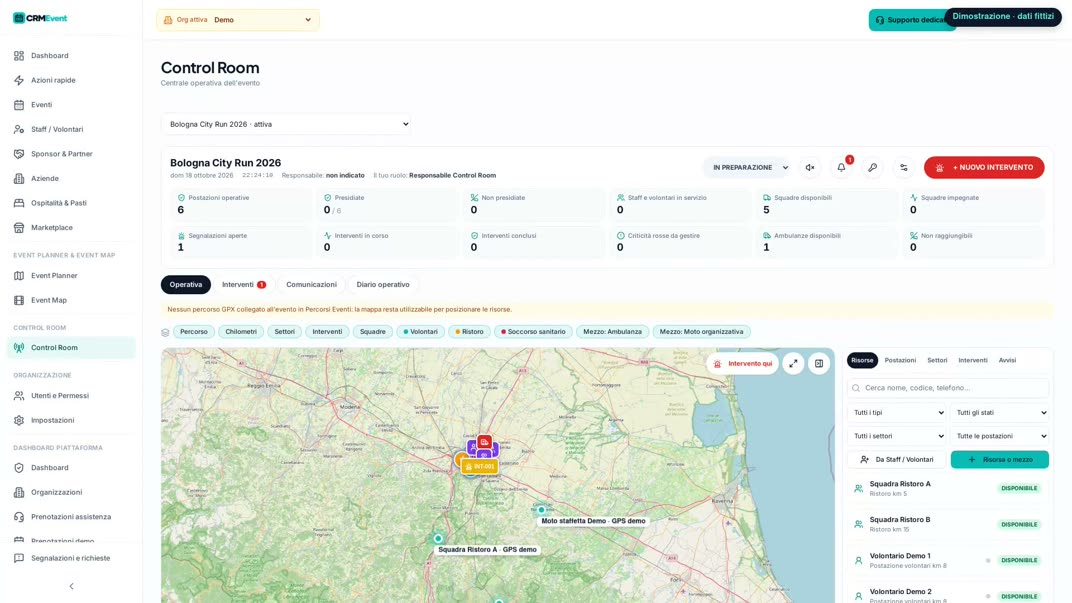
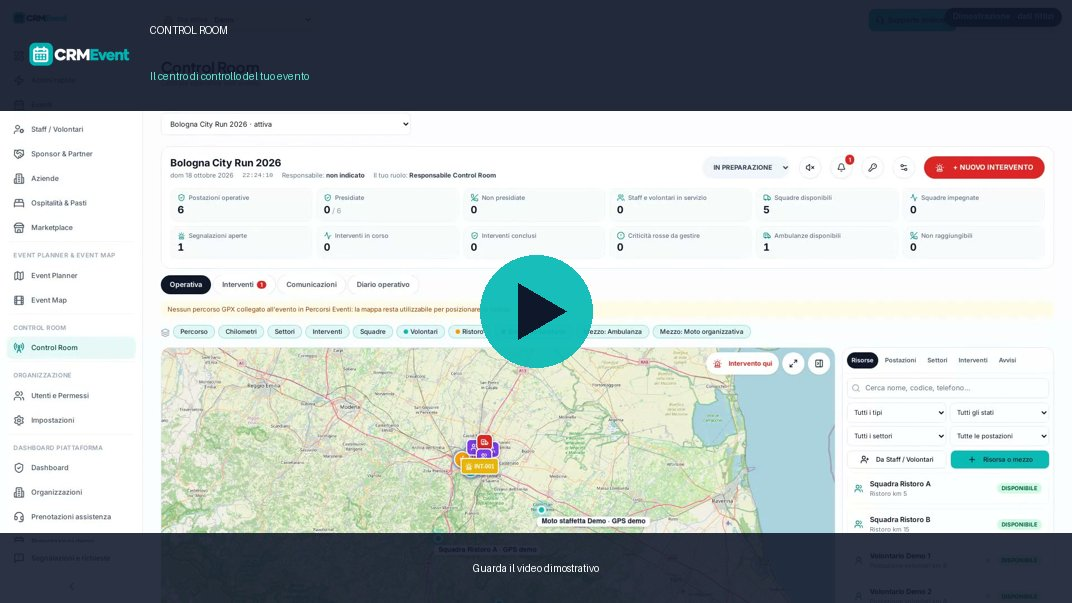
## Control Room: pagina di presentazione e video dimostrativo
La pagina Control Room ora funziona come Event Planner: senza modulo attivo mostra la presentazione con il video, con modulo attivo apre la dashboard operativa. Il test automatico ha confermato tutti i percorsi principali (non attivo, concessione gratuita, disattivazione, revoca, video in Marketing, smartphone) e i dati restano conservati. Le piccole correzioni fatte dopo il test le ho verificate solo con prove dirette, senza un nuovo test completo.

**La pagina di presentazione**
- Usa lo stesso modello di Event Planner, con titolo e sottotitolo richiesti, il video a sinistra e a destra la descrizione con l'elenco delle funzioni con le spunte.
- La voce **GPS** è indicata come "disponibile prossimamente", perché il tracciamento non è ancora attivo.
- **Riquadro commerciale:** mostra lo stato del modulo, che non è incluso negli abbonamenti, e il prezzo letto dal backend (119 € + IVA per evento), non scritto nella pagina.
- **Attiva dal Marketplace:** il pulsante apre la scheda Control Room del Marketplace già esistente.
- **Modulo disattivato:** se l'hai disattivato tu, al posto del pulsante compare il messaggio che i dati sono conservati.

**Il video (56 secondi, Full HD)**
- È la vera interfaccia di Control Room, registrata su "Bologna City Run 2026" dell'organizzazione Demo con dati fittizi: settori, 6 postazioni, squadre, mezzi e un intervento.
- In alto c'è la scritta fissa "Dimostrazione · dati fittizi".
[…]

diff --git a/frontend/src/pages/AddonHub.jsx b/frontend/src/pages/AddonHub.jsx
@@ -36,7 +36,7 @@ export function InfoPage({ info, s }) {
           <div className="font-semibold text-slate-900"><PriceLine info={info} s={s} /></div>
           <div className="text-slate-500" data-testid="addon-info-plan">{info.product === "controlroom" ? `Stato: ${s.module_disabled ? "disattivata" : "non attiva"} per la tua organizzazione · non inclusa negli abbonamenti, si attiva per singolo evento.` : s.included > 0 ? `Il tuo piano include ${info.name} su ${s.included} ${s.included === 1 ? "evento" : "eventi"}: già tutti assegnati.` : `Il tuo piano attuale non include eventi ${info.name}.`}</div>
         </div>
-        <Link to={`/marketplace?servizio=${info.slug}`} className="inline-flex h-11 items-center gap-2 rounded-lg bg-[#0ABAB5] px-6 font-semibold text-slate-900 hover:bg-[#09A8A3]" data-testid="addon-info-marketplace"><Store className="w-4 h-4" />Attiva dal Marketplace</Link>
+        {!s.module_disabled && <Link to={`/marketplace?servizio=${info.slug}`} className="inline-flex h-11 items-center gap-2 rounded-lg bg-[#0ABAB5] px-6 font-semibold text-slate-900 hover:bg-[#09A8A3]" data-testid="addon-info-marketplace"><Store className="w-4 h-4" />Attiva dal Marketplace</Link>}
       </div>
     </div>
   );

diff --git a/backend/tests/test_cr_promo_page.py b/backend/tests/test_cr_promo_page.py
@@ -1,0 +1,146 @@
+# Control Room promo page (iteration 178): /controlroom/events promo state, SA grant/revoke/disable on Demo org, 402 when inactive, data preserved, promo-materials control-room media
+import os
+import pytest
+import requests
+from dotenv import load_dotenv
+
+load_dotenv("/app/frontend/.env")
+BASE = os.environ.get("REACT_APP_BACKEND_URL").rstrip("/")
+API = BASE + "/api"
+SA = {"email": "manara.michele.pro@gmail.com", "password": "CrmEvent2026!"}
+ORG = "b7f40862230441b9a0bedabefe8dab49"
+EV = "demo_evt_bcr"
+DEF_MEDIA = {"mp4": "/media/control-room-demo.mp4", "poster": "/media/control-room-demo-poster.jpg", "preview": "/media/brevo/control-room-anteprima.jpg"}
+
+
+def _sa(org=None):
+    s = requests.Session()
+    r = s.post(f"{API}/auth/login", json=SA)
+    if r.status_code != 200:
+        pytest.skip("SA login failed")
+    s.headers["Authorization"] = f"Bearer {s.cookies.get('access_token')}"
+    if org:
+        s.headers["X-Org-Id"] = org
+    return s
+
+
+def _restore_preview():
+    # promo media POST with poster also overwrites preview; restore original preview directly in DB
+    import asyncio
+    from motor.motor_asyncio import AsyncIOMotorClient
+    from dotenv import load_dotenv
+    load_dotenv("/app/backend/.env")
+
+    async def go():
+        c = AsyncIOMotorClient(os.environ["MONGO_URL"])
+        await c[os.environ["DB_NAME"]].promo_materials.update_one({"slug": "control-room"}, {"$set": {**DEF_MEDIA, "webm": None}})
+        c.close()
+    asyncio.run(go())
+
+
+class TestCrPromoLifecycle:
+    """Sequential: inactive -> grant -> active -> disable -> enable -> revoke"""
+
+    def test_lifecycle(self):
+        sa = _sa()
+        org = _sa(ORG)
+        # initial inactive
+        d = org.get(f"{API}/controlroom/events").json()
+        assert d["price_net"] == 119 or d["price_net"] == 119.0
+        assert d["module_disabled"] is False
+        assert not any(e["active"] for e in d["events"]), "Demo org should start without active CR"
+        r = org.get(f"{API}/controlroom/events/{EV}/ops")
+        assert r.status_code == 402, r.text
+        assert "cr_posts" not in r.text and "posts" not in r.json()
+        # marketplace service
+        svcs = org.get(f"{API}/marketplace/services").json()["services"]
+        svc = next(x for x in svcs if x["key"] == "control-room")
+        assert svc["status"] != "coming_soon"
+        # grant (no X-Org-Id)
+        g = sa.post(f"{API}/platform/orgs/{ORG}/modules/controlroom/grant", json={"event_ids": [EV], "note": "TEST_iter178"})
+        assert g.status_code == 200, g.text
+        assert g.json()["created"] == 1
+        pid = None
+        try:
+            d = org.get(f"{API}/controlroom/events").json()
+            assert next(e for e in d["events"] if e["id"] == EV)["active"] is True
+            ops = org.get(f"{API}/controlroom/events/{EV}/ops")
+            assert ops.status_code == 200, ops.text
+            n_posts = len(ops.json().get("posts") or [])
+            assert n_posts >= 1, "demo posts data should be preserved"
+            # disable
+            st = sa.post(f"{API}/platform/orgs/{ORG}/modules/controlroom/state", json={"enabled": False})
+            assert st.status_code == 200, st.text
+            d = org.get(f"{API}/controlroom/events").json()
+            assert d["module_disabled"] is True and not any(e["active"] for e in d["events"])
+            assert org.get(f"{API}/controlroom/events/{EV}/ops").status_code == 402
+            # enable
+            assert sa.post(f"{API}/platform/orgs/{ORG}/modules/controlroom/state", json={"enabled": True}).status_code == 200
+            ops2 = org.get(f"{API}/controlroom/events/{EV}/ops")
+            assert ops2.status_code == 200 and len(ops2.json().get("posts") or []) == n_posts
+            # find purchase id
+            pr = sa.get(f"{API}/platform/controlroom/purchases").json()
+            rows = pr if isinstance(pr, list) else (pr.get("purchases") or pr.get("items") or [])
+            pid = next(p["id"] for p in rows if p.get("event_id") == EV and p.get("status") == "active" and (p.get("org_id") in (None, ORG)))
+        finally:
+            sa.post(f"{API}/platform/orgs/{ORG}/modules/controlroom/state", json={"enabled": True})
+            if pid is None:
+                pr = sa.get(f"{API}/platform/controlroom/purchases").json()
+                rows = pr if isinstance(pr, list) else (pr.get("purchases") or pr.get("items") or [])
+                pid = next((p["id"] for p in rows if p.get("event_id") == EV and p.get("status") == "active"), None)
+            if pid:
+                rv = sa.post(f"{API}/platform/orgs/{ORG}/modules/controlroom/{pid}/revoke")
+                assert rv.status_code == 200, rv.text
+        d = org.get(f"{API}/controlroom/events").json()
+        assert not any(e["active"] for e in d["events"])
+        assert org.get(f"{API}/controlroom/events/{EV}/ops").status_code == 402
+
+
+class TestPromoMaterialControlRoom:
+    def test_public_promo(self):
+        r = requests.get(f"{API}/public/promo/control-room")
+        assert r.status_code == 200
+        d = r.json()
+        assert d["mp4"] == DEF_MEDIA["mp4"] and d["poster"] == DEF_MEDIA["poster"] and d["status"] == "pubblicato"
+        assert any(x["slug"] == "control-room" for x in requests.get(f"{API}/public/promo").json())
+
+    def test_media_files_served(self):
+        for p, ct in [(DEF_MEDIA["mp4"], "video/mp4"), (DEF_MEDIA["poster"], "image/jpeg"), (DEF_MEDIA["preview"], "image/jpeg")]:
+            r = requests.get(BASE + p, headers={"Range": "bytes=0-100"})
+            assert r.status_code in (200, 206), p
+            assert ct in r.headers.get("content-type", ""), (p, r.headers.get("content-type"))
+
+    def test_public_video_page(self):
+        r = requests.get(f"{BASE}/video/control-room")
+        assert r.status_code == 200
+
+    def test_media_rbac_and_validation(self):
+        anon = requests.post(f"{API}/promo-materials/control-room/media", json={"poster": DEF_MEDIA["poster"]})
+        assert anon.status_code in (401, 403)
+        sa = _sa()
+        import uuid
+        u = requests.Session()
+        email, name = f"test_cr178_{uuid.uuid4().hex[:8]}@example.com", f"TEST_CR178_{uuid.uuid4().hex[:6]}"
+        rr = u.post(f"{API}/auth/register-organization", json={"nome": "Test", "cognome": "CR", "email": email, "password": "TestPass123!",
+                                                               "org_name": name, "telefono": "+393331234567", "accept_terms": True})
+        assert rr.status_code == 200, rr.text
+        me = u.get(f"{API}/auth/me").json()
+        try:
+            assert u.post(f"{API}/promo-materials/control-room/media", json={"poster": DEF_MEDIA["poster"]}).status_code == 403
+            # fresh org: promo state, no events, ops 402
+            d = u.get(f"{API}/controlroom/events").json()
+            assert d["module_disabled"] is False and d["events"] == []
+        finally:
+            sa.delete(f"{API}/platform/organizations/{me['org_id']}", json={"confirm_name": name})
+            sa.delete(f"{API}/platform/users/{me['user_id']}")
+        for bad in [{"poster": "javascript:alert(1)"}, {"mp4": "ftp://x/y.mp4"}, {}, {"poster": "/etc/passwd"}]:
+            assert sa.post(f"{API}/promo-materials/control-room/media", json=bad).status_code == 400, bad
+        try:
+            r = sa.post(f"{API}/promo-materials/control-room/media", json={"poster": DEF_MEDIA["poster"]})
+            assert r.status_code == 200, r.text
+            d = r.json()
+            assert d["poster"] == DEF_MEDIA["poster"] and d["mp4"] == DEF_MEDIA["mp4"]
+            assert d["preview"] == DEF_MEDIA["poster"]  # preview overwritten by poster (by design)
+        finally:
+            _restore_preview()
+        assert requests.get(f"{API}/public/promo/control-room").json()["preview"] == DEF_MEDIA["preview"]

diff --git a/backend/promo_materials.py b/backend/promo_materials.py
@@ -174,7 +174,7 @@ def build(db, deps):
 
     async def _snapshot(m, user, reason):
         await db.promo_material_versions.insert_one({"id": uuid.uuid4().hex, "slug": m["slug"], "version": m.get("version", 1), "reason": reason,
-                                                     "data": {k: m.get(k) for k in FIELDS + ["status"]}, "created_at": _now(),
+                                                     "data": {k: m.get(k) for k in FIELDS + ["status", "mp4", "webm", "poster"]}, "created_at": _now(),
                                                      "created_by": user.get("email")})
 
     @router.put("/promo-materials/{slug}")
@@ -193,10 +193,16 @@ def build(db, deps):
     async def admin_media(slug: str, body: MediaIn, user: dict = Depends(sa_dep)):
         m = await _get(slug)
         upd = {k: v for k, v in body.model_dump().items() if v}
-        if not upd or any(not re.fullmatch(r"(https://[^\s\"'<>]+|/(api|media)/[A-Za-z0-9._/\-]+)", v) for v in upd.values()):
-            raise HTTPException(status_code=400, detail="File non valido: carica un MP4 o un JPG")
-        if "poster" in upd:
-            upd["preview"] = upd["poster"]
+        ext = {"mp4": (".mp4",), "poster": (".jpg", ".jpeg", ".png")}
+        site = _site(None)
+        def ok(k, v):
+            if ".." in v or not re.fullmatch(r"(https://[^\s\"'<>]+|/(api|media)/[A-Za-z0-9._/\-]+)", v):
+                return False
+            if v.startswith("https://") and not v.startswith(site + "/api/"):
+                return False
+            return not v.startswith("/media/") or v.lower().endswith(ext[k])
+        if not upd or any(not ok(k, v) for k, v in upd.items()):
+            raise HTTPException(status_code=400, detail="File non valido: carica un MP4 per il video e un JPG o PNG per la miniatura")
         await _snapshot(m, user, "media")
         await db.promo_materials.update_one({"slug": slug}, {"$set": {**upd, "webm": None if "mp4" in upd else m.get("webm"), "updated_at": _now(), "updated_by": user.get("email")}, "$inc": {"version": 1}})
         return await _get(slug)
@@ -221,7 +227,7 @@ def build(db, deps):
         if not v:
             raise HTTPException(status_code=404, detail="Versione non trovata")
         await _snapshot(m, user, "ripristino")
-        await db.promo_materials.update_one({"slug": slug}, {"$set": {**{k: v["data"].get(k) for k in FIELDS}, "updated_at": _now(), "updated_by": user.get("email")}, "$inc": {"version": 1}})
+        await db.promo_materials.update_one({"slug": slug}, {"$set": {**{k: v["data"].get(k) for k in FIELDS}, **{k: v["data"][k] for k in ("mp4", "webm", "poster") if v["data"].get(k)}, "updated_at": _now(), "updated_by": user.get("email")}, "$inc": {"version": 1}})
         return await _get(slug)
 
     return {"router": router, "ensure": ensure}

diff --git a/backend/tests/ui_cr178_setup.py b/backend/tests/ui_cr178_setup.py
@@ -1,0 +1,25 @@
+# UI setup helper iteration 178: create/delete a TEST_ org admin (non-SA) for promo/info page checks. Usage: python ui_cr178_setup.py setup|cleanup
+import json, os, sys, uuid
+import requests
+from dotenv import load_dotenv
+
+load_dotenv("/app/frontend/.env")
+API = os.environ.get("REACT_APP_BACKEND_URL").rstrip("/") + "/api"
+F = "/tmp/cr178.json"
+SA = {"email": "manara.michele.pro@gmail.com", "password": "CrmEvent2026!"}
+
+if sys.argv[1] == "setup":
+    s = requests.Session()
+    email = f"test_cr178_{uuid.uuid4().hex[:8]}@example.com"
+    name = f"TEST_CR178_{uuid.uuid4().hex[:6]}"
+    r = s.post(f"{API}/auth/register-organization", json={"nome": "Test", "cognome": "CR", "email": email, "password": "TestPass123!",
+                                                           "org_name": name, "telefono": "+393331234567", "accept_terms": True})
+    assert r.status_code == 200, r.text
+    me = s.get(f"{API}/auth/me").json()
+    out = {"email": email, "password": "TestPass123!", "org_id": me.get("org_id"), "user_id": me.get("user_id"), "org_name": name}
+    json.dump(out, open(F, "w")); print(json.dumps(out))
+else:
+    out = json.load(open(F))
+    sa = requests.Session(); sa.post(f"{API}/auth/login", json=SA)
+    print("org", sa.delete(f"{API}/platform/organizations/{out['org_id']}", json={"confirm_name": out["org_name"]}).status_code)
+    print("user", sa.delete(f"{API}/platform/users/{out['user_id']}").status_code)

diff --git a/memory/PRD.md b/memory/PRD.md
@@ -1065,6 +1065,14 @@ Richiesta utente: nuovo modello commerciale a 3 abbonamenti (BRONZE €19/€182
 - Non fatto: import postazioni da Event Planner, uso Briefing in Control Room.
 
 
+## Control Room: pagina di presentazione + video dimostrativo (2026-11-17)
+- Scelta utente: GPS mostrato nel video come simulazione etichettata ("Simulazione dimostrativa GPS"); nella pagina la voce GPS è "disponibile prossimamente".
+- ControlRoom.jsx: se nessun evento attivo o modulo disattivato → InfoPage di AddonHub (stesso componente di Event Planner) con video, testi, prezzo da backend (price_net), stato marketplace, CTA /marketplace?servizio=control-room (nascosta se disattivato). Con almeno un evento attivo → dashboard operativa invariata.
+- Video: scripts/cr_video/seed.py (dati demo su Demo org/demo_evt_bcr: 3 settori, 6 postazioni, risorse, 1 intervento simulato) + record.py (Playwright, UI reale, badge "Dimostrazione · dati fittizi", schermata finale logo + www.crmevent.it) → /media/control-room-demo.mp4 (56s 1920x1080), poster, /media/brevo/control-room-anteprima.jpg. Concessione demo revocata (dati demo conservati).
+- Marketing: promo material "control-room" (pubblicato, pagina /video/control-room); POST /api/promo-materials/{slug}/media (SA) + pulsanti "Sostituisci video/miniatura" in PromoCard; validazione estensioni/percorsi; versioni includono mp4/poster.
+- Test: iteration_178 (tutto ok) + correzioni minori (validazione media, CTA nascosta se disattivato, anteprima email brandizzata).
+
+
 ## Staff e Volontari: maschera unica e provenienza (2026-11-17)
 - Scelta utente: Ruolo Staff/Volontario per ogni evento (come prima).
 - PersonMask.jsx: stessa maschera per matita, "Aggiungi Staff", "Aggiungi Volontario" (A anagrafica completa, B provenienza + preferenze dai link, C eventi con evento ricercabile, ruolo, preferenza, team, mansione; Aggiungi evento/rimuovi; conferma modifiche non salvate; retry senza doppioni).
